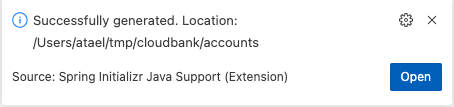
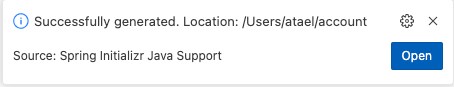
CB fixes

diff --git a/obaas/build-account-microservice/build-account-microservice.md b/obaas/build-account-microservice/build-account-microservice.md
@@ -51,7 +51,7 @@ Create a project to hold your Account service.  In this lab, you will use the Sp
 
 1. Choose Artifact ID.
 
-   You will be asked for the Maven Artifact ID for this new project, enter **accounts**.
+   You will be asked for the Maven Artifact ID for this new project, enter **account**.
 
   ![Artifact ID](images/obaas-spring-init-5.png " ")
 
@@ -116,8 +116,8 @@ Create a project to hold your Account service.  In this lab, you will use the Sp
     The service will take a few seconds to start, and then you will see some messages similar to these:
 
     ```text
-    2023-02-25 12:27:21.277  INFO 20507 --- [           main] o.s.b.w.embedded.tomcat.TomcatWebServer  : Tomcat started on port(s): 8080 (http) with context path ''
-    2023-02-25 12:27:21.282  INFO 20507 --- [           main] c.example.accounts.AccountsApplication   : Started AccountsApplication in 0.753 seconds (JVM running for 0.893)
+    2024-02-14T14:39:52.501-06:00  INFO 83614 --- [           main] o.s.b.w.embedded.tomcat.TomcatWebServer  : Tomcat started on port 8080 (http) with context path ''
+    2024-02-14T14:39:52.506-06:00  INFO 83614 --- [           main] com.example.account.AccountApplication   : Started AccountApplication in 0.696 seconds (process running for 0.833)
     ```
 
     Of course, the service does not do anything yet, but you can still make a request and confirm you get a response from it. Open a new terminal and execute the following command:
@@ -441,7 +441,8 @@ Create a project to hold your Account service.  In this lab, you will use the Sp
             this.accountOtherDetails = accountOtherDetails;
             this.accountCustomerId = accountCustomerId;
         }
-    }</copy>
+    }
+    </copy>
     ```
 
     Now, you need to give Spring Data JPA some hints about how to map these fields to the underlying database objects.  Spring Data JPA can actually automate creation of database objects for you, and that can be very helpful during development and testing.  But in many real-world cases, the database objects will already exist, so in this lab you will work with pre-existing database objects.
@@ -516,6 +517,7 @@ Create a project to hold your Account service.  In this lab, you will use the Sp
     @Column(name = "CUSTOMER_ID")
     private String accountCustomerId;
 
+    @SuppressWarnings("deprecation")
     @Generated(GenerationTime.INSERT)
     @Column(name = "ACCOUNT_OPENED_DATE", updatable = false, insertable = false)
     private Date accountOpenedDate;
@@ -535,7 +537,7 @@ Create a project to hold your Account service.  In this lab, you will use the Sp
     <copy>package com.example.accounts.repository;
     
     import org.springframework.data.jpa.repository.JpaRepository;
-    import com.example.accounts.model.Account;
+    import com.example.account.model.Account;
     
     public interface AccountRepository extends JpaRepository<Account, Long> {    
     }</copy>
@@ -657,20 +659,30 @@ Create a project to hold your Account service.  In this lab, you will use the Sp
     Here's what the new method (and imports) should look like:
 
     ```java
-    <copy>import org.springframework.web.bind.annotation.PostMapping;
+    <copy>
+    import java.net.URI;
+    ...
+    ...
+    import org.springframework.web.bind.annotation.PostMapping;
     import org.springframework.web.bind.annotation.RequestBody;
     import org.springframework.http.HttpStatus;
     import org.springframework.http.ResponseEntity;
+    import org.springframework.web.servlet.support.ServletUriComponentsBuilder;
 
     // ...
     
     @PostMapping("/account")
     public ResponseEntity<Account> createAccount(@RequestBody Account account) {
         try {
-            Account _account = accountRepository.saveAndFlush(account);
-            return new ResponseEntity<>(_account, HttpStatus.CREATED);
+            Account newAccount = accountRepository.saveAndFlush(account);
+            URI location = ServletUriComponentsBuilder
+                    .fromCurrentRequest()
+                    .path("/{id}")
+                    .buildAndExpand(newAccount.getAccountId())
+                    .toUri();
+            return ResponseEntity.created(location).build();
         } catch (Exception e) {
-            return new ResponseEntity<>(null, HttpStatus.INTERNAL_SERVER_ERROR);
+            return new ResponseEntity<>(account, HttpStatus.INTERNAL_SERVER_ERROR);
         }
     }</copy>
     ```
@@ -687,14 +699,12 @@ Create a project to hold your Account service.  In this lab, you will use the Sp
           -d '{"accountName": "Dave", "accountType": "CH", "accountOtherDetail": "", "accountCustomerId": "abc123xyz"}' \
           http://localhost:8080/api/v1/account</copy>
     HTTP/1.1 201 
-    Content-Type: application/json
-    Transfer-Encoding: chunked
-    Date: Sat, 25 Feb 2023 21:52:30 GMT
-    
-    {"accountId":3,"accountName":"Dave","accountType":"CH","accountCustomerId":"abc123xyz","accountOpenedDate":"2023-02-26T02:52:30.000+00:00","accountOtherDetails":null,"accountBalance":0}
+    Location: http://localhost:8080/api/v1/account/3
+    Content-Length: 0
+    Date: Wed, 14 Feb 2024 21:33:17 GMT
     ```
 
-    Notice the HTTP Status Code is 201 (Created).  The service returns the account that was created in the body.
+    Notice the HTTP Status Code is 201 (Created). The service returns the URI for the account was created in the header.
 
 1. Test endpoint `/account` with bad data
 

diff --git a/obaas/explore-platform/explore-platform.md b/obaas/explore-platform/explore-platform.md
@@ -16,6 +16,7 @@ In this lab, you will:
 
 * Review the components of the Oracle Backend for Spring Boot and Microservices
 * Explore how microservice data is stored in the Oracle Autonomous Database
+* Learn about the SPring Operations Center included in Oracle Backend for Spring Boot and Microservices
 * Learn about the Spring Admin user interface
 * Learn about Spring Eureka Service Registry
 * Learn about APISIX API Gateway
@@ -232,7 +233,11 @@ Oracle Backend for Spring Boot and Microservices includes an Oracle Autonomous D
 
    Feel free to explore some of these tables to see the data.
 
-## Task 3: Explore Spring Admin
+## Task 3: Explore Spring Operations Center
+
+TBD!!!
+
+## Task 4: Explore Spring Admin
 
 Oracle Backend for Spring Boot and Microservices includes Spring Admin which provides a web user interface for managing and monitoring Spring applications.
 
@@ -268,7 +273,7 @@ Oracle Backend for Spring Boot and Microservices includes Spring Admin which pro
 
    ![Customer service endpoint list](images/obaas-spring-admin-3.png)
 
-## Task 4: Explore Spring Eureka Service Registry
+## Task 5: Explore Spring Eureka Service Registry
 
 Spring Eureka Service Registry is an application that holds information about what microservices are running in your environment, how many instances of each are running, and on which addresses and ports.  Spring Boot microservices register with Eureka at startup, and it regularly checks the health of all registered services.  Services can use Eureka to make calls to other services, thereby eliminating the need to hard code service addresses into other services.
 
@@ -286,7 +291,7 @@ Spring Eureka Service Registry is an application that holds information about wh
 
    Notice that you can see your own services like the Accounts, Credit Score and Customer services from the CloudBank sample application, as well as platform services like Spring Admin, the Spring Config server and Conductor.
 
-## Task 5: Explore APISIX API Gateway
+## Task 6: Explore APISIX API Gateway
 
 Oracle Backend for Spring Boot and Microservices includes APISIX API Gateway to manage which services are made available outside of the Kubernetes cluster.  APISIX allows you to manage many aspects of the services' APIs including authentication, logging, which HTTP methods are accepted, what URL paths are exposed, and also includes capabilities like rewriting, filtering, traffic management and has a rich plugin ecosystem to enhance it with additional capabilities.  You can manage the APISIX API Gateway using the APISIX Dashboard.
 
@@ -322,7 +327,7 @@ Oracle Backend for Spring Boot and Microservices includes APISIX API Gateway to 
 
    > **Note**: You can find detailed information about the available plugins and how to configure them in the [APISIX documentation](https://apisix.apache.org/docs/apisix/getting-started/) in the **Plugins** section.
 
-## Task 6: Explore Spring Config Server
+## Task 7: Explore Spring Config Server
 
 The Spring Config Server can be used to store configuration information for Spring Boot applications, so that the configuration can be injected at runtime.  It organized the configuration into properties, which are essentially key/value pairs.  Each property can be assigned to an application, a label, and a profile.  This allows a running application to be configured based on metadata which it will send to the Spring Config Server to obtain the right configuration data.
 
@@ -340,7 +345,7 @@ The configuration data is stored in a table in the Oracle Autonomous Database in
 
    In this example you can see there is an application called `fraud`, which has two configuration properties for the profile `kube` and label `latest`.
 
-## Task 7: Explore Grafana
+## Task 8: Explore Grafana
 
 Grafana provides an easy way to access the metrics collected in the backend and to view them in dashboards.  It can be used to monitor performance, as well as to identify and analyze problems and to create alerts.
 
@@ -371,7 +376,7 @@ Grafana provides an easy way to access the metrics collected in the backend and 
 
    ![picture](images/obaas-grafana-spring-dashboard.png)
 
-## Task 8: Explore Jaeger
+## Task 9: Explore Jaeger
 
 Jaeger provides a way to view the distributed tracing information that is automatically collected by the backend.  This allows you to follow requests from the entry point of the platform (the API Gateway) through any number of microservices, including database and messaging operations those services may perform.
 
